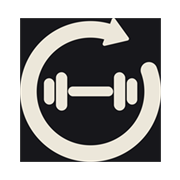
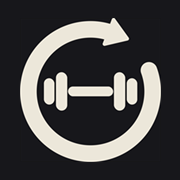
feat: Repeat · 健身打卡 v1.0.0
按星期自动推送当天训练计划，主页只显示当天，其他天不可见也不可勾选。

- 完成训练 / 提前结束：按钮文案跟着进度走，不要求全部点亮
- 周五/周六/周日 显示休息卡片
- 浅色 / 深色 / 跟随系统
- 云端同步（Supabase）：邮箱登录，进度与历史跨设备同步
- 图标由源图裁切生成（favicon 16/32/48、apple-touch 180、PWA 192/512）

diff --git a/index.html b/index.html
@@ -5,12 +5,12 @@
   <meta name="viewport" content="width=device-width, initial-scale=1, maximum-scale=1, user-scalable=no, viewport-fit=cover">
   <meta name="color-scheme" content="light dark">
   <meta name="theme-color" content="#f2f5ee">
-  <link rel="icon" type="image/png" sizes="16x16" href="./favicon-16x16.png?v=1">
-  <link rel="icon" type="image/png" sizes="32x32" href="./favicon-32x32.png?v=1">
-  <link rel="icon" type="image/png" sizes="48x48" href="./favicon-48x48.png?v=1">
-  <link rel="apple-touch-icon" sizes="180x180" href="./apple-touch-icon.png?v=1">
+  <link rel="icon" type="image/png" sizes="16x16" href="./favicon-16x16.png?v=2">
+  <link rel="icon" type="image/png" sizes="32x32" href="./favicon-32x32.png?v=2">
+  <link rel="icon" type="image/png" sizes="48x48" href="./favicon-48x48.png?v=2">
+  <link rel="apple-touch-icon" sizes="180x180" href="./apple-touch-icon.png?v=2">
   <link rel="manifest" href="./site.webmanifest">
-  <!-- ?v=1：图标改了但文件名没变，加版本号才能绕开浏览器对 favicon 的长期缓存 -->
+  <!-- ?v=2：图标改了但文件名没变，加版本号才能绕开浏览器对 favicon 的长期缓存 -->
   <title>Repeat · 健身打卡</title>
   <style>
     /* ===== 浅色（默认） ===== */
